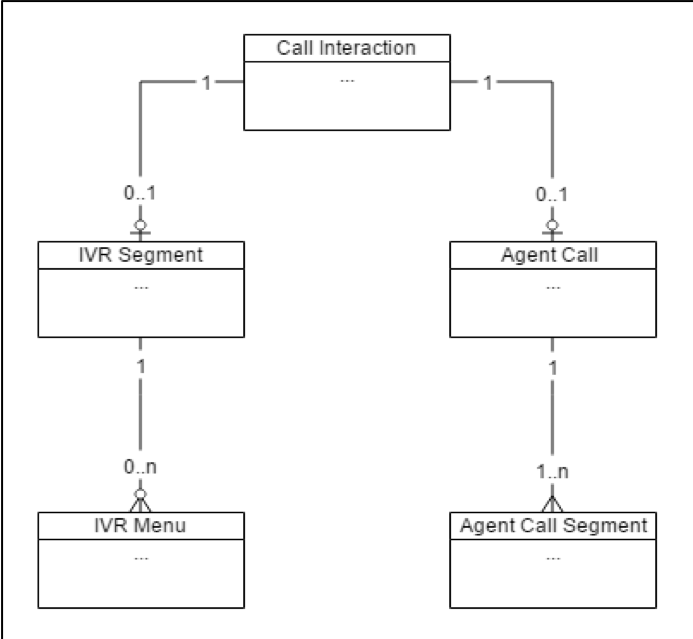
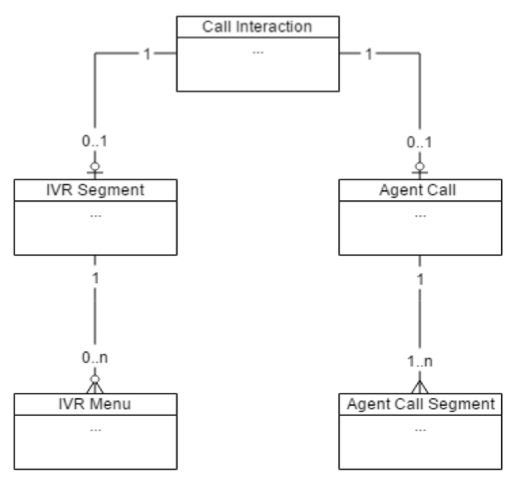
IVR ETL review.

Changed region(s): [[0.0, 0.0, 1.0, 1.0]]

diff --git a/IVR/README.md b/IVR/README.md
@@ -7,7 +7,7 @@ Task
 
 A client has provided you with two data extracts that contain information around customer calls to a contact centre. Before the data can be loaded and analyzed in a customer journey model it needs to be transformed. You have been asked to develop a transformation routine that takes the two data extracts as an input and creates a set of five output files that can be loaded directly into a customer journey model. It is anticpiated that the client will provide updated data extracts on an ongoing basis.
 
-<img src="https://github.com/oonisim/Apache-Spark/blob/master/IVR/images/ER.png">
+<img src="https://github.com/oonisim/Apache-Spark/blob/master/IVR/images/ER.png" width=400>
 
 The first table [ivr_segments.csv](https://github.com/oonisim/Apache-Spark/tree/master/IVR/data/ivr_segments.csv) represents IVR Segments. Each record includes a set of attributes that describe the customer's traversal through the IVR. The second table [agent_call_segments.csv](https://github.com/oonisim/Apache-Spark/tree/master/IVR/data/agent_call_segments.csv) represents Agent Call Segments. A customer might talk to multiple agents during a call (i.e., the call is transferred from agent to agent). Each record in this table represents one segment of a call. A detailed description for each field is provieded Field Description tab in the [specifications](https://github.com/oonisim/Apache-Spark/tree/master/IVR/data/specifications.xlsx
 
